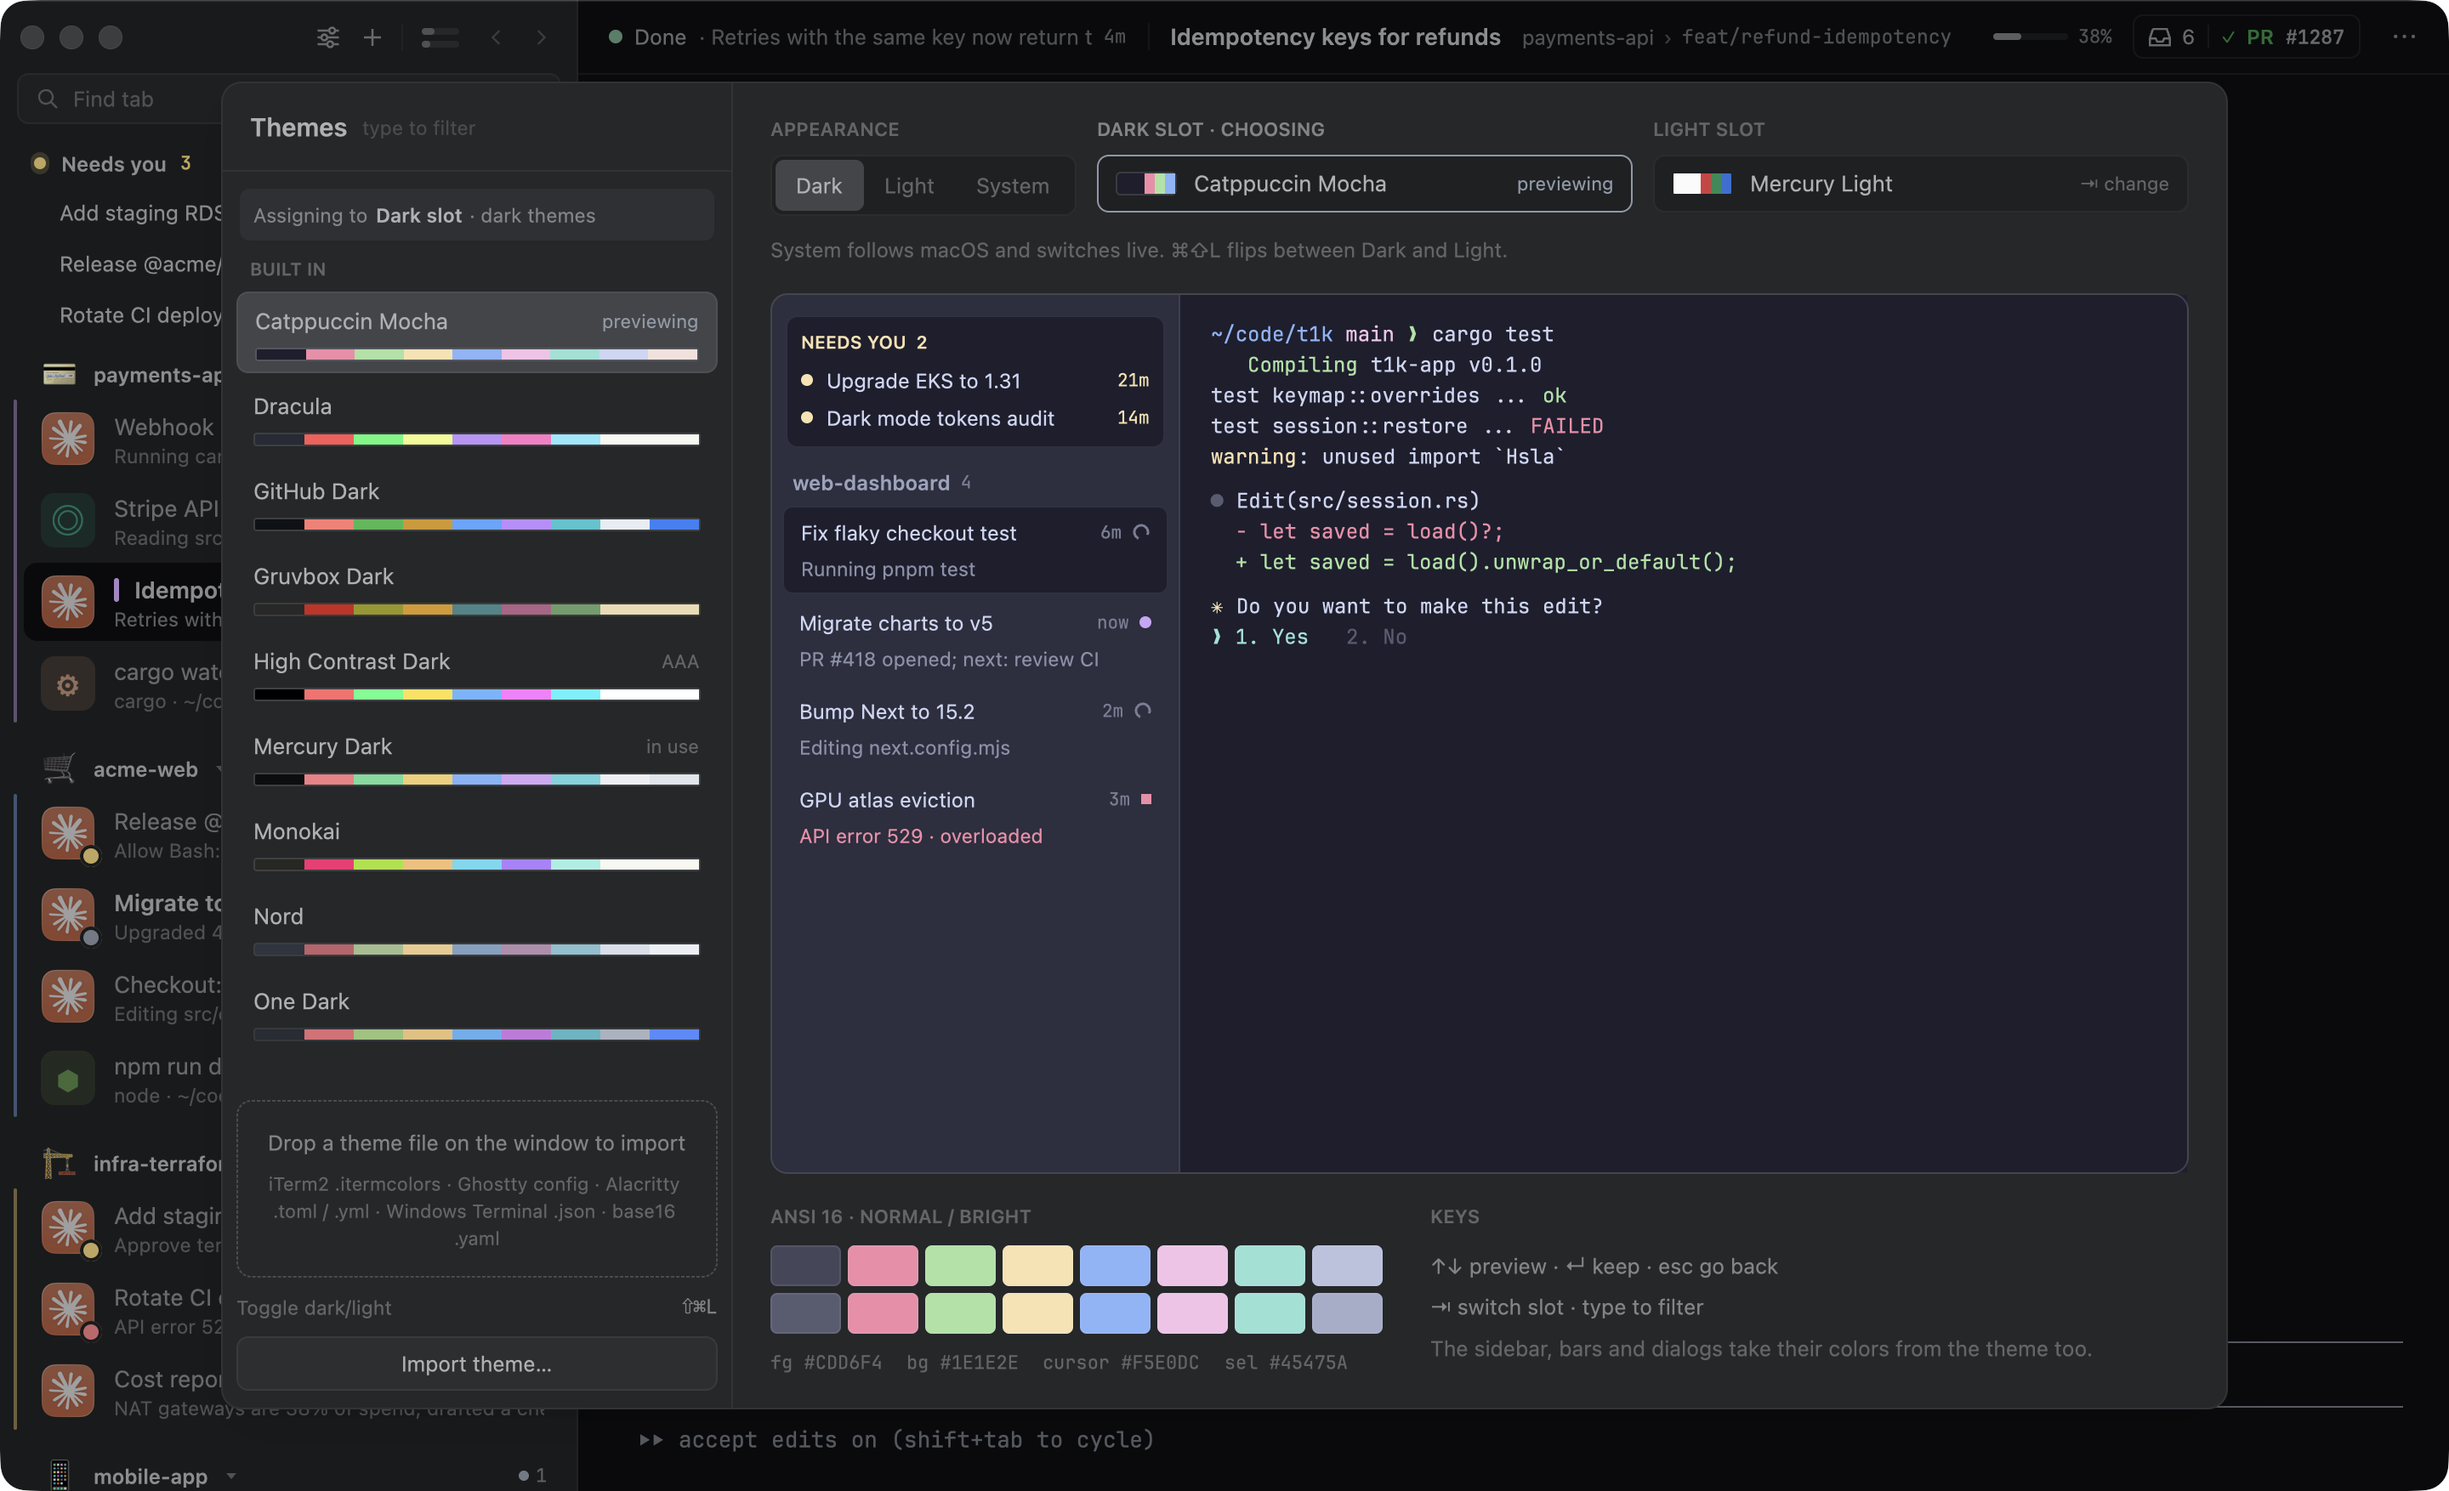
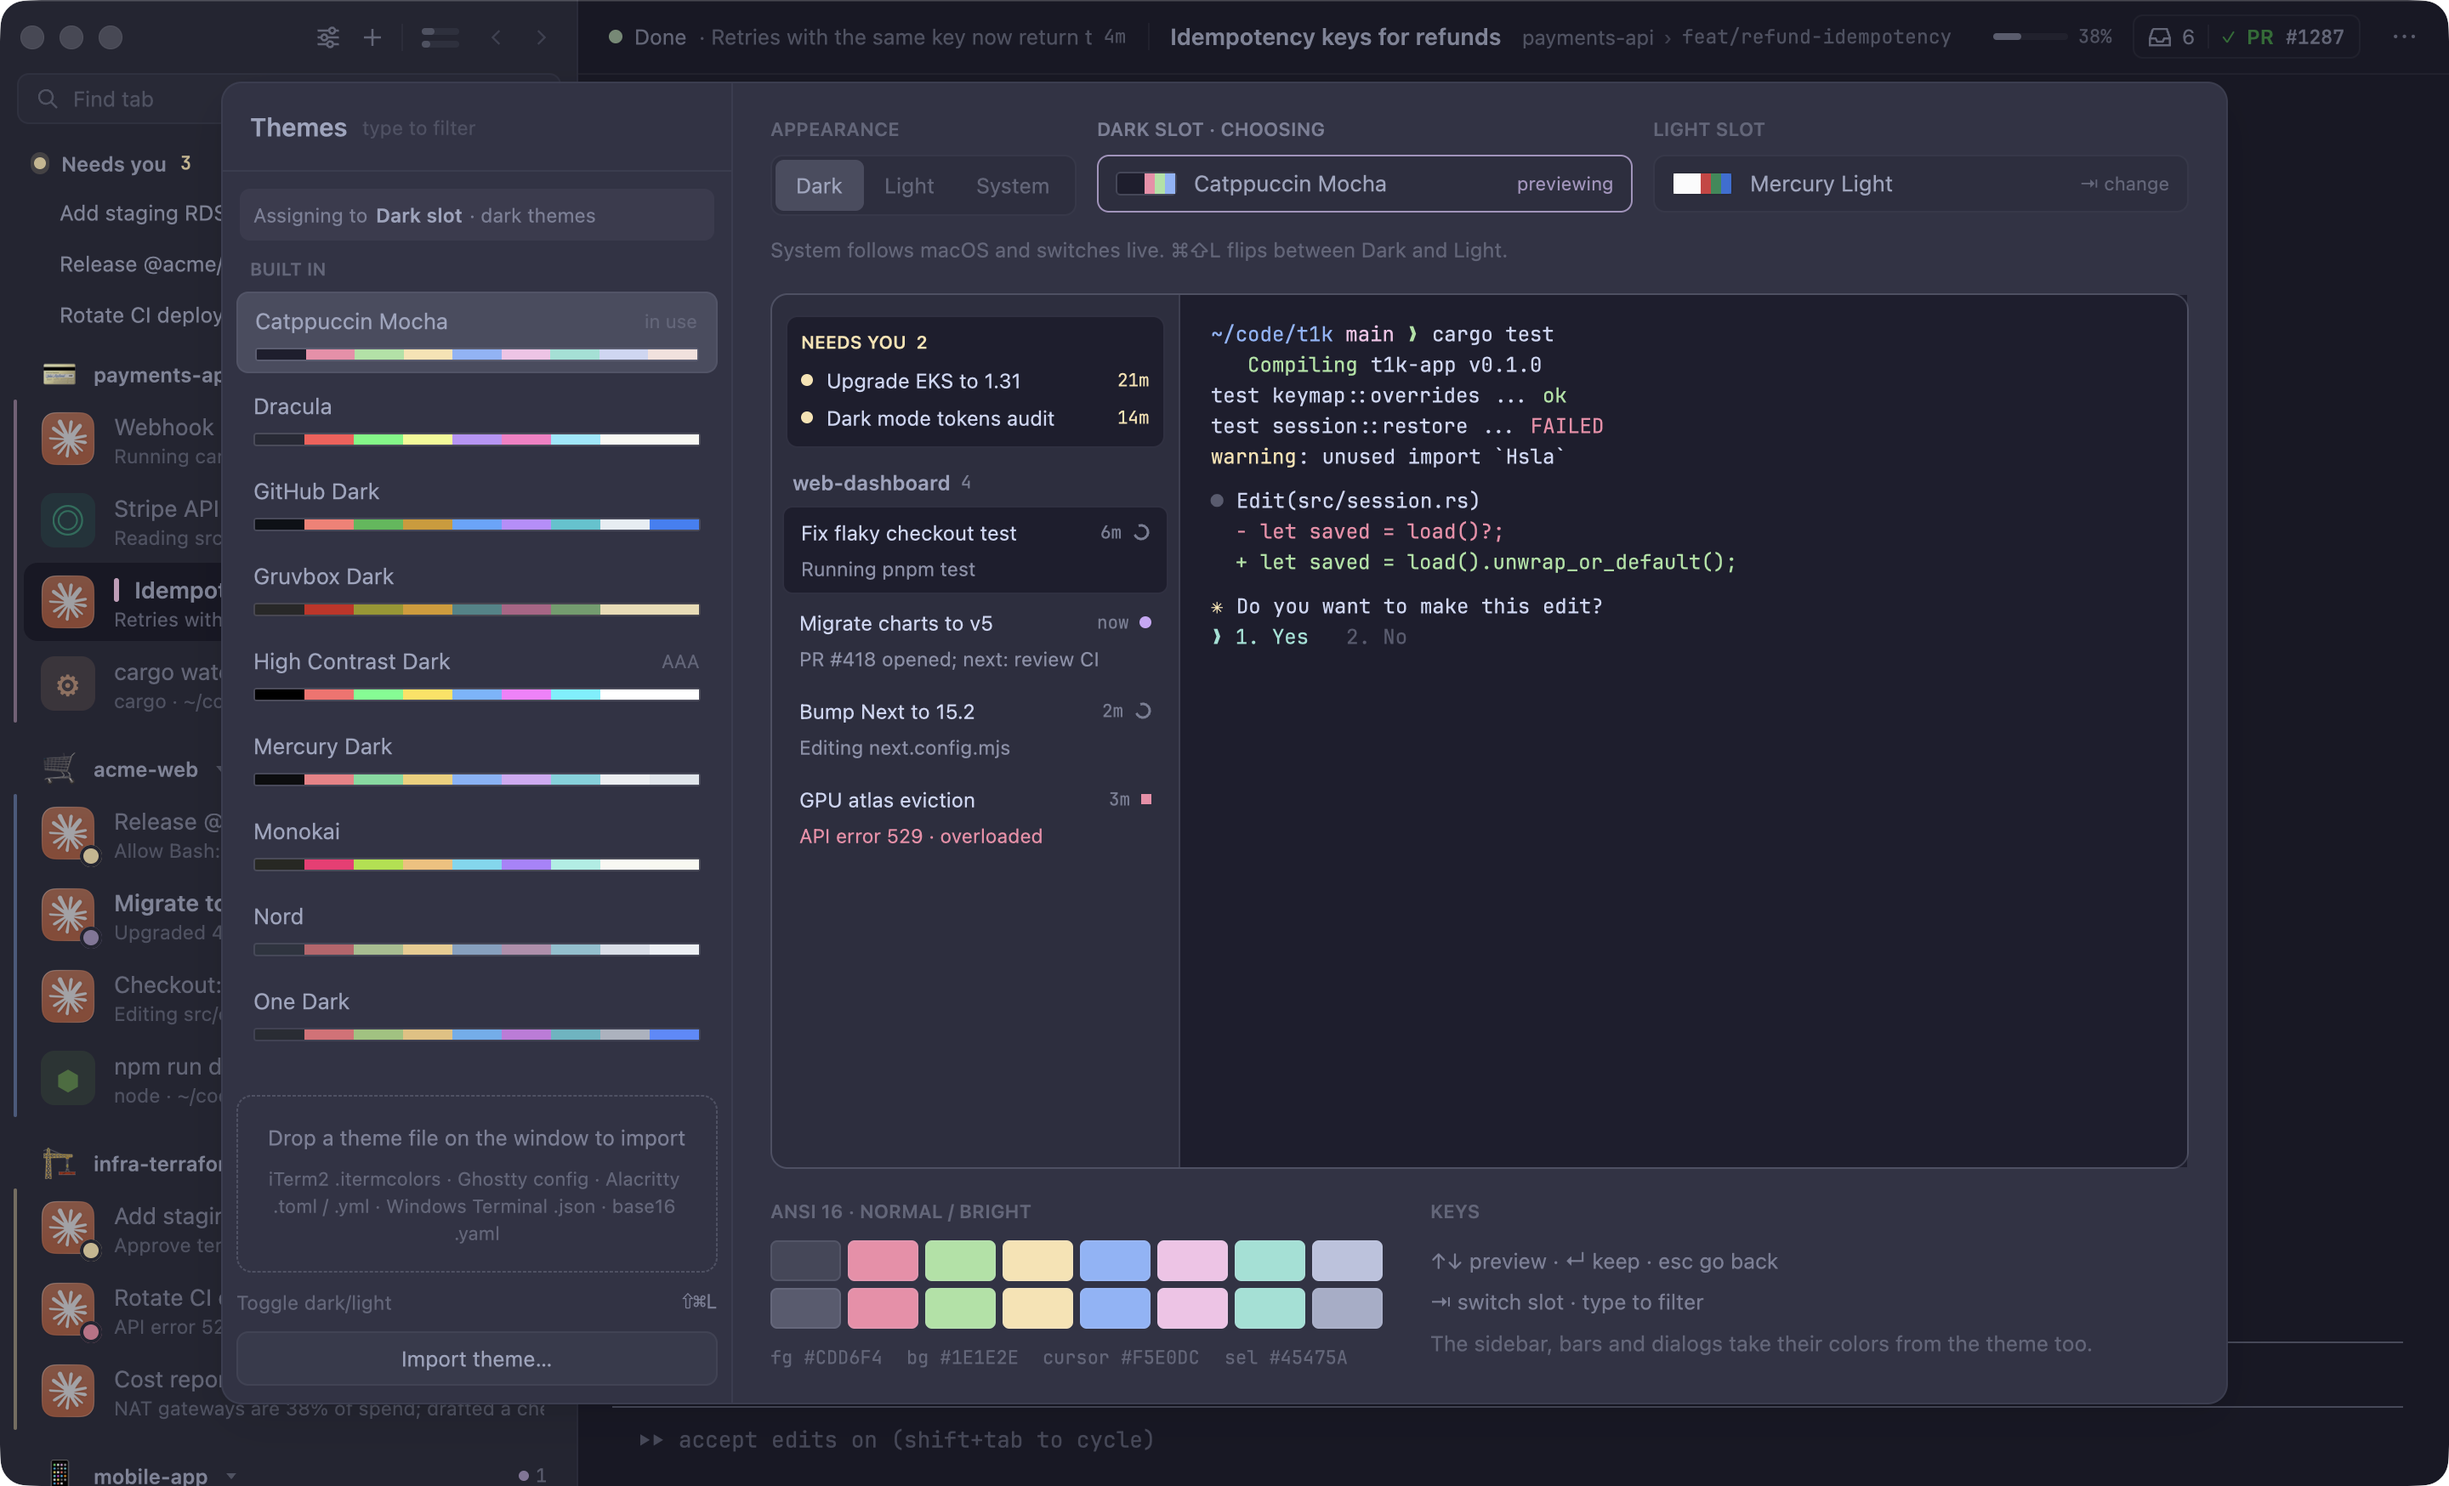
site: themes shown in dark and light; agent badges under Works with
The themes screenshots now preview the theme the window is in (Catppuccin Mocha and
Latte), shown as an overlapping dark/light pair. The debug theme picker selects the
theme in use, as the real one does. Codex, Gemini CLI, Antigravity and Grok get the
badges T1K's sidebar draws for them.

diff --git a/docs/index.html b/docs/index.html
@@ -92,8 +92,13 @@ h1{font:600 50px/56px var(--sans);letter-spacing:-.02em;color:var(--t1)}
 .outputs .frame img{width:382.17%;left:-282.17%;top:0}
 .switcher .frame{aspect-ratio:596/475}
 .switcher .frame img{width:201.34%;left:-50.67%;top:-16.42%}
-.themes .frame{aspect-ratio:990/660}
+.themes .frame{aspect-ratio:990/660;width:80%}
 .themes .frame img{width:121.21%;left:-10.61%;top:-5.3%}
+/* Dark and light, overlapping: one theme per slot, each window in its own theme. */
+.themes .frame.light{margin:-34% 0 0 20%;box-shadow:0 0 0 1px var(--line),var(--shadow-lg)}
+.themes .tag{position:absolute;right:10px;bottom:10px;padding:2px 8px;border-radius:6px;font:600 11px/16px var(--sans);letter-spacing:.3px;background:rgba(0,0,0,.55);color:#fff}
+.themes .frame.dark .tag{left:10px;right:auto}
+.themes .frame.light .tag{background:rgba(255,255,255,.85);color:#1b1c1f}
 
 /* App window (sidebar + terminal) */
 .win{display:flex;border-radius:12px;overflow:hidden;background:var(--term);box-shadow:0 0 0 1px var(--line),var(--shadow);font-family:var(--sans)}
@@ -214,7 +219,7 @@ h1{font:600 50px/56px var(--sans);letter-spacing:-.02em;color:var(--t1)}
 .r-pill{height:28px;padding:0 12px;border-radius:14px;background:var(--card);box-shadow:0 0 0 1px var(--line);display:inline-flex;align-items:center;gap:8px;font-size:11.5px;color:var(--t1);white-space:nowrap}
 
 /* Make it yours */
-.f-vis .shot.themes{max-width:520px}
+.f-vis .shot.themes{max-width:620px}
 .prefs{padding:16px}
 .pref{display:flex;align-items:center;gap:12px;padding:7px 0;border-top:1px solid var(--line)}
 .pref .l{font-size:11px;color:var(--t3);width:96px;flex:none}
@@ -235,6 +240,8 @@ h1{font:600 50px/56px var(--sans);letter-spacing:-.02em;color:var(--t1)}
 .agents{display:flex;gap:12px 14px;flex-wrap:wrap;margin:0;padding:0;list-style:none}
 .agent{height:36px;padding:0 12px;border-radius:8px;background:var(--card);box-shadow:inset 0 0 0 1px var(--line);display:inline-flex;align-items:center;gap:8px;font-size:14px;color:var(--t1)}
 .agent img{width:24px;height:24px}
+/* The badge T1K's sidebar draws for agents without a Mac app icon: glyph on a 22% tint. */
+.agent .glyph{width:24px;height:24px;border-radius:6px;display:inline-flex;align-items:center;justify-content:center;background:rgba(var(--c),.22);color:rgb(var(--c));font:700 16px/1 var(--sans)}
 
 /* Homebrew command under the download button: click to copy */
 .brew{display:inline-flex;align-items:center;gap:10px;height:36px;padding:0 12px;border:0;border-radius:8px;background:var(--card);box-shadow:inset 0 0 0 1px var(--line);color:var(--t2);font:13px var(--mono);cursor:pointer;max-width:100%}
@@ -569,7 +576,8 @@ footer .tm{font-size:12px}
     </div>
     <div class="f-vis">
       <div class="shot themes">
-        <div class="frame"><img src="screenshots/themes.png" width="2880" height="1754" alt="The theme picker with a live preview of the sidebar and terminal" loading="lazy" onerror="var s=this.closest('.shot');if(s)s.classList.add('no-img');this.remove()"></div>
+        <div class="frame dark"><img src="screenshots/themes.png" width="2880" height="1754" alt="The theme picker in dark mode, previewing Catppuccin Mocha across the sidebar and terminal" loading="lazy" onerror="var s=this.closest('.shot');if(s)s.classList.add('no-img');this.remove()"><span class="tag">Dark</span></div>
+        <div class="frame light"><img src="screenshots/themes-light.png" width="2880" height="1754" alt="The same picker in light mode, previewing Catppuccin Latte" loading="lazy" onerror="var s=this.closest('.shot');if(s)s.classList.add('no-img');this.remove()"><span class="tag">Light</span></div>
         <div class="mock panel prefs" role="img" aria-label="T1K’s look settings: themes, fonts, sidebar density, tab icons, session colors, keys and the setup wizard">
           <div class="pref"><span class="l">Themes</span><span class="v">
             <span class="sw-th" style="background:#121316"></span><span class="sw-th" style="background:#FBFBFC"></span><span class="sw-th" style="background:#002B36"></span><span class="sw-th" style="background:#1A1B26"></span><span class="sw-th" style="background:#FDF6E3"></span><span class="sw-th" style="background:#282A36"></span>
@@ -593,10 +601,10 @@ footer .tm{font-size:12px}
     <h2 id="works-h" class="lab" style="font-weight:400">Works with</h2>
     <ul class="agents">
       <li class="agent"><img src="site/claude-64.png" width="24" height="24" alt="">Claude Code</li>
-      <li class="agent">Codex</li>
-      <li class="agent">Gemini CLI</li>
-      <li class="agent">Antigravity</li>
-      <li class="agent">Grok</li>
+      <li class="agent"><span class="glyph" style="--c:16,163,127" aria-hidden="true">◎</span>Codex</li>
+      <li class="agent"><span class="glyph" style="--c:76,139,245" aria-hidden="true">✦</span>Gemini CLI</li>
+      <li class="agent"><span class="glyph" style="--c:76,139,245" aria-hidden="true">◭</span>Antigravity</li>
+      <li class="agent"><span class="glyph" style="--c:150,156,166" aria-hidden="true">X</span>Grok</li>
     </ul>
   </section>
 

diff --git a/crates/t1k-app/src/workspace.rs b/crates/t1k-app/src/workspace.rs
@@ -856,8 +856,11 @@ impl Workspace {
                     Some(Overlay::Rename { tab: this.active, text })
                 }
                 "themes" => {
+                    // The theme in use is the one selected (and previewed), as when opened by hand.
                     let dark = this.theme.is_dark();
-                    Some(Overlay::ThemePicker { query: String::new(), selected: 0, dark })
+                    let current = this.theme_slot(dark).name.clone();
+                    let selected = crate::theme_picker::results("", dark).iter().position(|t| t.name == current).unwrap_or(0);
+                    Some(Overlay::ThemePicker { query: String::new(), selected, dark })
                 }
                 "remind" => Some(Overlay::RemindCustom { tab: this.active, text: "tomorrow 9:15".into() }),
                 "icons" | "icons-search" | "tabicons" | "icons-apps" | "icons-image" => this.debug_icon_picker(&which, cx),
